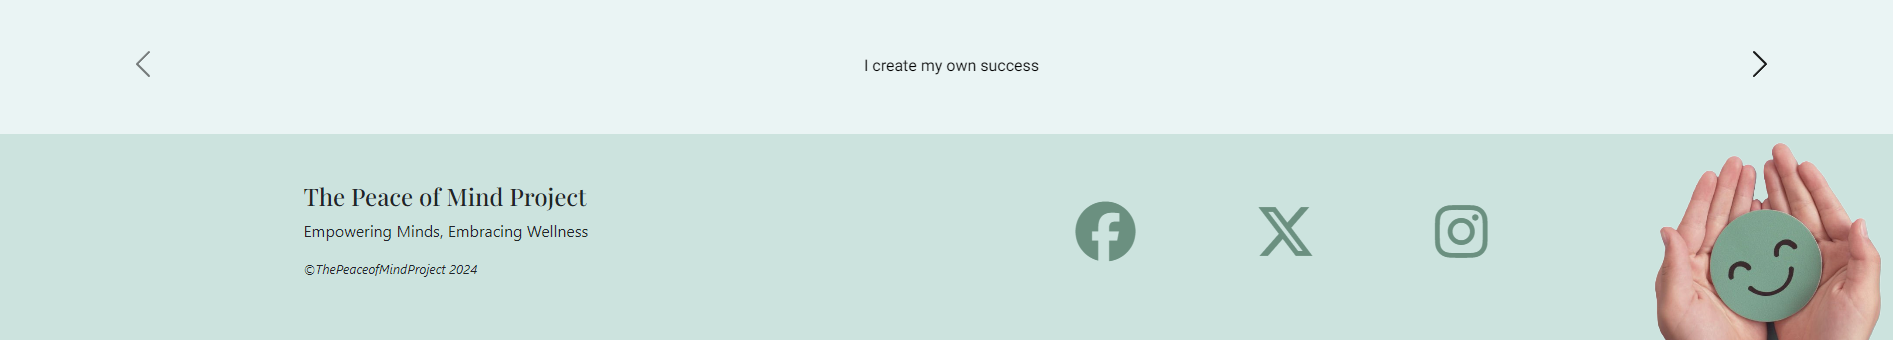
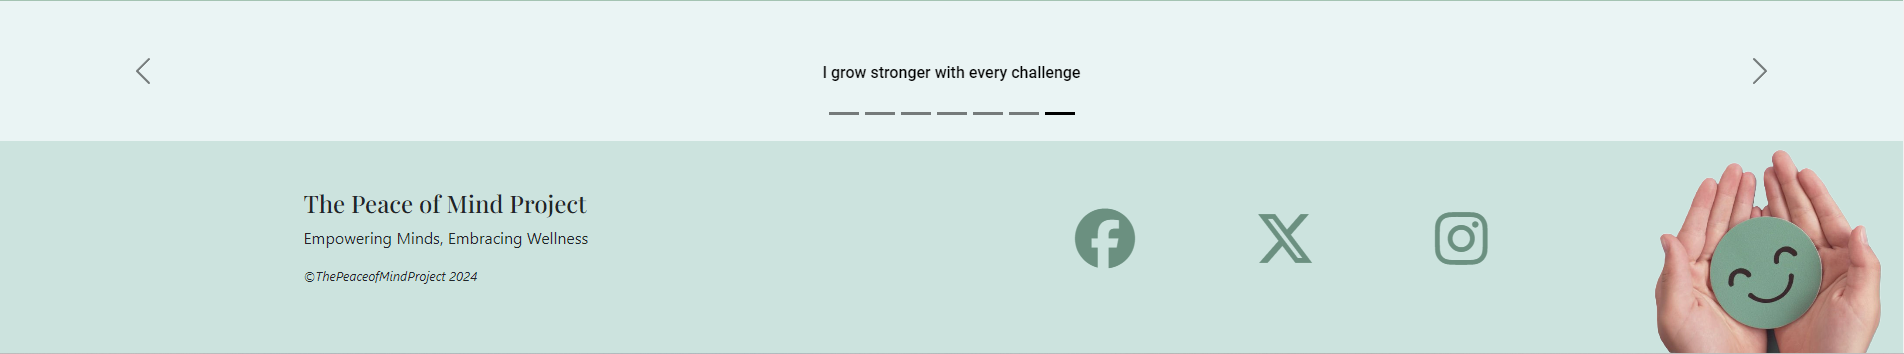
Fix: carousel image in readme with latest update and a few gratically errors in UX section

diff --git a/README.md b/README.md
@@ -35,7 +35,7 @@ Project planned on Miro - [My Miro Board](https://miro.com/app/board/uXjVLaOiO7s
 
 ### Inital design thoughts
 
-As this website is for mental health awareness, I wanted to create a simple flowing webpage that was brought a calming experience to the user with out being overloading to the user. I felt the colour plate used was extremely important as it sets the tone of the webpage
+As this website is for mental health awareness, I wanted to create a simple flowing webpage that brought a calming experience to the user with out being overloading to the user. I felt the colour pallette used was extremely important as it sets the tone of the webpage
 
 #### Colour pallet
 
